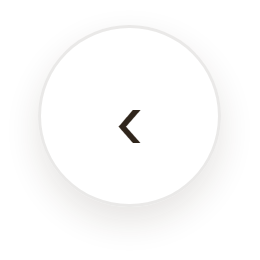
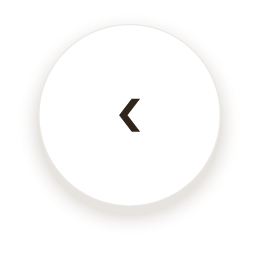
fix(frontend): 퀘스트 이전 화살표 중앙 정렬 [S15P31A305-846]

Changed region(s): [[0.4615, 0.3692, 0.5538, 0.5538]]

diff --git a/frontend/UnityClient/Assets/Scripts/Editor/Mission/FirstDayMissionPreview.cs b/frontend/UnityClient/Assets/Scripts/Editor/Mission/FirstDayMissionPreview.cs
@@ -16,6 +16,93 @@ namespace A305.EditorTools.Mission
     /// <summary>저장해 둔 서버 응답으로 UI를 렌더링한다. Play나 API·모델 호출을 하지 않는다.</summary>
     public static class FirstDayMissionPreview
     {
+        [MenuItem("Tools/A305/Mission/Capture Quest Navigation")]
+        public static void CaptureQuestNavigation()
+        {
+            string output = Environment.GetEnvironmentVariable("QUEST_NAV_PREVIEW_OUTPUT");
+            if (string.IsNullOrWhiteSpace(output))
+                throw new InvalidOperationException(
+                    "QUEST_NAV_PREVIEW_OUTPUT에 출력 폴더를 지정하세요."
+                );
+            QuestBoardBuilder.AlignBackArrow();
+            var scene = EditorSceneManager.OpenScene("Assets/Scenes/Production/CafeScene.unity");
+            var view = BuilderTools.FindSingleInScene<FirstDayMissionView>(scene);
+            var board = view.GetComponentInChildren<QuestBoardView>(true);
+            var camera = BuilderTools
+                .FindSingleInScene<PlayerCameraRig>(scene)
+                .GetComponent<Camera>();
+            foreach (Canvas canvas in BuilderTools.FindAllInScene<Canvas>(scene))
+            {
+                bool visible = canvas.gameObject == view.gameObject;
+                canvas.gameObject.SetActive(visible);
+                if (!visible)
+                    continue;
+                canvas.renderMode = RenderMode.ScreenSpaceCamera;
+                canvas.worldCamera = camera;
+                canvas.planeDistance = .5f;
+            }
+            view.SetAvailable(true);
+            board.Open();
+            board.Show(
+                new QuestBoardState
+                {
+                    Quests =
+                    {
+                        new QuestEntry
+                        {
+                            Id = "CHECK_IN",
+                            Title = "낯선 마을의 첫날",
+                            Description = "호텔에 짐을 맡기고 마을을 둘러봐요.",
+                            Reward = 10,
+                            Status = QuestEntry.InProgress,
+                            Stops =
+                            {
+                                new QuestStop
+                                {
+                                    Place = "호텔",
+                                    Scene = "HOTEL",
+                                    NpcName = "Jake",
+                                    Current = true,
+                                },
+                                new QuestStop
+                                {
+                                    Place = "카페",
+                                    Scene = "CAFE",
+                                    NpcName = "Mia",
+                                },
+                            },
+                        },
+                    },
+                }
+            );
+            Directory.CreateDirectory(output);
+            board.ShowStory();
+            Render(camera, view, Path.Combine(output, "story-desktop.png"), 1600, 900);
+            Render(camera, view, Path.Combine(output, "story-mobile.png"), 844, 390);
+            board.ShowPractice();
+            board.ShowPracticePlaces(
+                new PracticeBoardState
+                {
+                    Places =
+                    {
+                        new PracticePlace
+                        {
+                            PlaceCode = "CAFE",
+                            Name = "카페",
+                            Summary = "음료 주문하기",
+                            NpcCode = "CAFE_STAFF",
+                            NpcName = "Mia",
+                            RoleLabel = "카페 직원",
+                            SceneCode = "CAFE",
+                            TotalCount = 1,
+                        },
+                    },
+                }
+            );
+            Render(camera, view, Path.Combine(output, "practice-desktop.png"), 1600, 900);
+            Render(camera, view, Path.Combine(output, "practice-mobile.png"), 844, 390);
+        }
+
         [MenuItem("Tools/A305/Mission/Capture First Day Preview")]
         public static void Capture()
         {

diff --git a/frontend/UnityClient/Assets/Scripts/Editor/Mission/QuestBoardBuilder.cs b/frontend/UnityClient/Assets/Scripts/Editor/Mission/QuestBoardBuilder.cs
@@ -1,4 +1,6 @@
+using System.IO;
 using A305.EditorTools.Common;
+using A305.EditorTools.Theme;
 using A305.Mission;
 using A305.Theme;
 using TMPro;
@@ -91,8 +93,51 @@ namespace A305.EditorTools.Mission
         [MenuItem(MenuPath)]
         public static void ApplyToPrefab()
         {
+            AlignBackArrow();
             BuilderTools.UpdatePrefabIfExists(PrefabPath, Apply);
             AssetDatabase.SaveAssets();
+        }
+
+        [MenuItem("Tools/A305/Mission/Align Quest Back Arrow")]
+        public static void AlignBackArrow()
+        {
+            // 머리줄 버튼은 76px이고 그림자 여백은 왼·오른쪽 16, 위 10, 아래 22px다.
+            // 글꼴의 기준선 대신 원과 화살표가 같은 도형 중심을 사용하게 한다.
+            const int size = 260;
+            const float radius = 38 * ArtPixels;
+            Vector2 center = new Vector2(54 * ArtPixels, size - 48 * ArtPixels);
+            var art = new UiArtCanvas(size, size);
+            art.SoftShadow(
+                center.x - radius,
+                center.y - radius - 9,
+                center.x + radius,
+                center.y + radius - 9,
+                radius,
+                22,
+                new Color32(82, 61, 37, 36)
+            );
+            art.Circle(center.x, center.y, radius, new Color32(235, 233, 230, 255));
+            art.Circle(center.x, center.y, radius - 1.2f, Color.white);
+            art.Polygon(
+                Ink,
+                center + new Vector2(10.5f, 16.5f),
+                center + new Vector2(2.1f, 16.5f),
+                center + new Vector2(-10.5f, 0),
+                center + new Vector2(2.1f, -16.5f),
+                center + new Vector2(10.5f, -16.5f),
+                center + new Vector2(-2.1f, 0)
+            );
+            Texture2D texture = art.ToTexture();
+            try
+            {
+                string path = ArtFolder + "/QuestBackRound.png";
+                File.WriteAllBytes(path, texture.EncodeToPNG());
+                AssetDatabase.ImportAsset(path, ImportAssetOptions.ForceUpdate);
+            }
+            finally
+            {
+                Object.DestroyImmediate(texture);
+            }
         }
 
         public static void Apply(GameObject root)

diff --git a/frontend/UnityClient/Assets/Scripts/Mission/README.md b/frontend/UnityClient/Assets/Scripts/Mission/README.md
@@ -1,5 +1,7 @@
 # Mission 모듈
 
+이야기·장소 연습 머리줄의 이전 버튼 그림(`QuestBackRound.png`)은 **Tools → A305 → Mission → Align Quest Back Arrow**에서 생성합니다. 흰 원과 화살표는 같은 중심 좌표를 사용하며, 그림자 여백과 글꼴 기준선에 영향을 받지 않습니다. **Apply Quest Board**도 이 그림을 함께 갱신합니다. **Capture Quest Navigation**(`FirstDayMissionPreview`)은 `QUEST_NAV_PREVIEW_OUTPUT` 폴더에 두 머리줄의 PC·모바일 Unity 캡처를 저장하며 서버를 호출하지 않습니다.
+
 첫날의 작은 소동을 완료하면 수첩에서 [마을에서 보내는 하루](../../../../../docs/api/town-story.md)를 시작할 수 있습니다. 새 여정은 첫날과 별도로 진행을 저장하고, 세탁·이발·선물 등은 실제 결제나 아이템 전달 없이 대화로 연습합니다. 새 여정 시작 전에는 첫날의 소지품과 예산을 그대로 보여 줍니다.
 
 새 여정의 가게 9곳은 모두 마을 씬 안에 있습니다. `TownMapArt.Shops`는 담당 NPC를 가게 이름과 지도 그림의 건물 칸에 연결합니다. **Tools → A305 → Mission → Refresh Town Maps**는 이 칸과 마을 도로를 읽어 수첩·큰 지도를 함께 갱신합니다.
